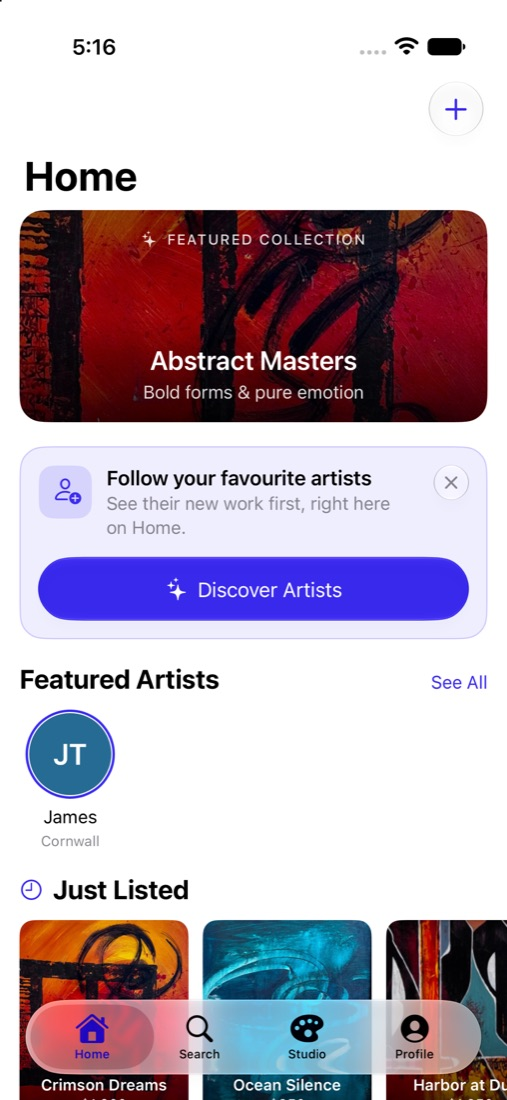
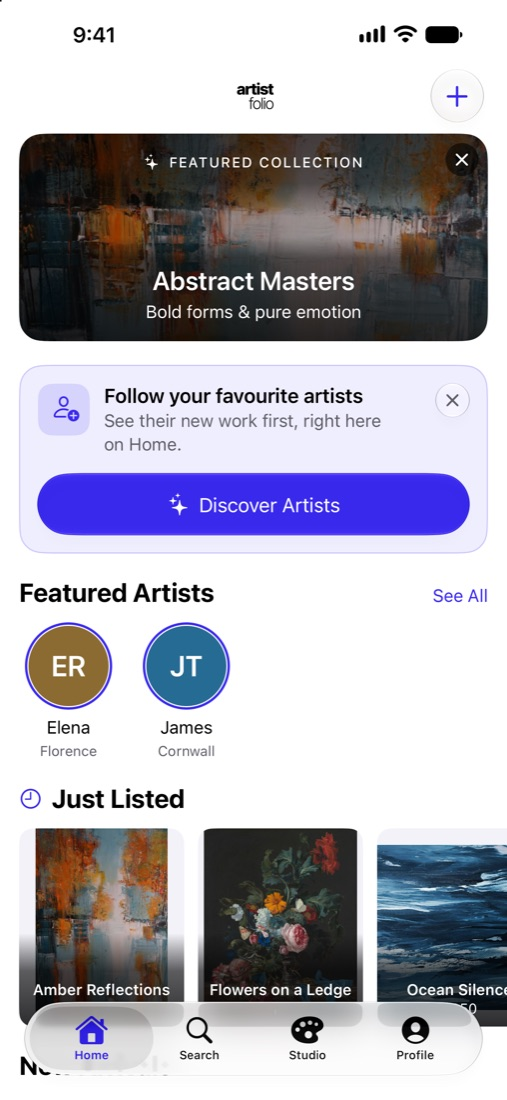
Use latest app screenshots and new background paintings
Six feature steps now match the current screens (Home, Search, Detail,
artist profile, Studio, Profile). Hero frames and the gallery wall use
the Marketing/Paintings set from Unsplash.

diff --git a/index.html b/index.html
@@ -16,9 +16,9 @@
 <meta name="twitter:card" content="summary_large_image">
 <link rel="apple-touch-icon" href="img/apple-touch-icon.png">
 <link rel="icon" href="img/apple-touch-icon.png" type="image/png">
-<link rel="stylesheet" href="landing.css?v=1">
+<link rel="stylesheet" href="landing.css?v=2">
 <script>document.documentElement.classList.add('js')</script>
-<script src="landing.js?v=1" defer></script>
+<script src="landing.js?v=2" defer></script>
 </head>
 <body>
 <a class="skip" href="#main">Skip to content</a>
@@ -42,10 +42,10 @@
 <section class="hero" id="top">
   <div class="hero-glow" data-speed="0.15" aria-hidden="true"></div>
   <div class="hero-art" aria-hidden="true">
-    <figure class="frame f1" data-speed="-0.25"><img src="img/art-1.jpg" alt=""></figure>
-    <figure class="frame f2" data-speed="0.35"><img src="img/art-2.jpg" alt=""></figure>
-    <figure class="frame f3" data-speed="-0.12"><img src="img/art-3.jpg" alt=""></figure>
-    <figure class="frame f4" data-speed="0.22"><img src="img/art-4.jpg" alt=""></figure>
+    <figure class="frame f1" data-speed="-0.25"><img src="img/paint/p17.jpg" alt=""></figure>
+    <figure class="frame f2" data-speed="0.35"><img src="img/paint/p11.jpg" alt=""></figure>
+    <figure class="frame f3" data-speed="-0.12"><img src="img/paint/p14.jpg" alt=""></figure>
+    <figure class="frame f4" data-speed="0.22"><img src="img/paint/p12.jpg" alt=""></figure>
   </div>
   <div class="container hero-inner">
     <p class="eyebrow">Original art, from the people who make it</p>
@@ -81,36 +81,42 @@
         <article class="feature is-active">
           <span class="num">01</span>
           <h3>Discover original work</h3>
-          <p>A calm feed of new listings and featured collections across every medium. Browse as a guest, no sign-in.</p>
+          <p>Featured collections, featured artists and just-listed pieces on one calm Home. Browse as a guest, no sign-in.</p>
         </article>
         <article class="feature">
           <span class="num">02</span>
+          <h3>Search by style</h3>
+          <p>Browse collections from abstract to old masters, or search by artist, medium or style.</p>
+        </article>
+        <article class="feature">
+          <span class="num">03</span>
           <h3>See it on your wall</h3>
           <p>Tap View on Wall and point your camera at any wall. AR shows the piece at its real size before you decide.</p>
         </article>
         <article class="feature">
-          <span class="num">03</span>
-          <h3>Save and follow</h3>
-          <p>Keep pieces in your library and follow artists to see their new work first, right on Home.</p>
-        </article>
-        <article class="feature">
           <span class="num">04</span>
-          <h3>Contact the artist</h3>
-          <p>Reach artists by email, Instagram or their website. You arrange payment and delivery together.</p>
+          <h3>Follow and contact artists</h3>
+          <p>Follow artists to see their new work first, and reach them by email, Instagram or their website. You arrange payment and delivery together.</p>
         </article>
         <article class="feature">
           <span class="num">05</span>
           <h3>Your own Studio</h3>
           <p>Artists publish a piece with photos, a title and a price in minutes, and manage every listing in one place.</p>
         </article>
+        <article class="feature">
+          <span class="num">06</span>
+          <h3>Saved, in your iCloud</h3>
+          <p>Saved artworks and the artists you follow live in your profile, stored in your private iCloud.</p>
+        </article>
       </div>
       <div class="feature-phone">
         <div class="phone phone-pin">
-          <img class="is-active" src="img/screen-01_home.jpg" alt="Home feed" width="1100" height="2384">
-          <img src="img/screen-03_detail.jpg" alt="Artwork detail with View on Wall" width="1100" height="2384" aria-hidden="true">
-          <img src="img/screen-05_profile.jpg" alt="Profile with saved artworks and following" width="1100" height="2384" aria-hidden="true">
-          <img src="img/screen-03_detail.jpg" alt="Artwork detail with Contact Artist" width="1100" height="2384" aria-hidden="true">
+          <img class="is-active" src="img/screen-01_home.jpg" alt="Home with featured collection, featured artists and new listings" width="1100" height="2384">
+          <img src="img/screen-02_search.jpg" alt="Search with browse collections" width="1100" height="2384" aria-hidden="true">
+          <img src="img/screen-03_detail.jpg" alt="Artwork detail with View on Wall and Contact Artist" width="1100" height="2384" aria-hidden="true">
+          <img src="img/screen-artist_profile_james.jpg" alt="Artist profile with Follow and contact buttons" width="1100" height="2384" aria-hidden="true">
           <img src="img/screen-04_studio.jpg" alt="Studio with an artist's listings" width="1100" height="2384" aria-hidden="true">
+          <img src="img/screen-05_profile.jpg" alt="Profile with saved artworks and following" width="1100" height="2384" aria-hidden="true">
         </div>
       </div>
     </div>
@@ -119,9 +125,9 @@
 
 <!-- Parallax gallery wall -->
 <section class="wall" aria-label="Artwork on ArtistFolio">
-  <div class="wall-col" data-speed="-0.18"><img src="img/art-1.jpg" alt="" loading="lazy"><img src="img/art-5.jpg" alt="" loading="lazy"></div>
-  <div class="wall-col" data-speed="0.12"><img src="img/art-3.jpg" alt="" loading="lazy"><img src="img/art-2.jpg" alt="" loading="lazy"></div>
-  <div class="wall-col" data-speed="-0.3"><img src="img/art-4.jpg" alt="" loading="lazy"><img src="img/art-1.jpg" alt="" loading="lazy"></div>
+  <div class="wall-col" data-speed="-0.18"><img src="img/paint/p7.jpg" alt="" loading="lazy"><img src="img/paint/p10.jpg" alt="" loading="lazy"><img src="img/paint/p4.jpg" alt="" loading="lazy"></div>
+  <div class="wall-col" data-speed="0.12"><img src="img/paint/p16.jpg" alt="" loading="lazy"><img src="img/paint/p9.jpg" alt="" loading="lazy"><img src="img/paint/p13.jpg" alt="" loading="lazy"></div>
+  <div class="wall-col" data-speed="-0.3"><img src="img/paint/p15.jpg" alt="" loading="lazy"><img src="img/paint/p1.jpg" alt="" loading="lazy"><img src="img/paint/p6.jpg" alt="" loading="lazy"></div>
   <div class="wall-quote">
     <p>Art looks different<br>on <em>your</em> wall.</p>
   </div>
@@ -179,7 +185,7 @@
       <a href="privacy.html">Privacy Policy</a>
       <a href="mailto:artistfolio.app@gmail.com">Contact</a>
     </nav>
-    <p>© 2026 ArtistFolio</p>
+    <p>© 2026 ArtistFolio · Background artwork photos from Unsplash</p>
   </div>
 </footer>
 </body>
